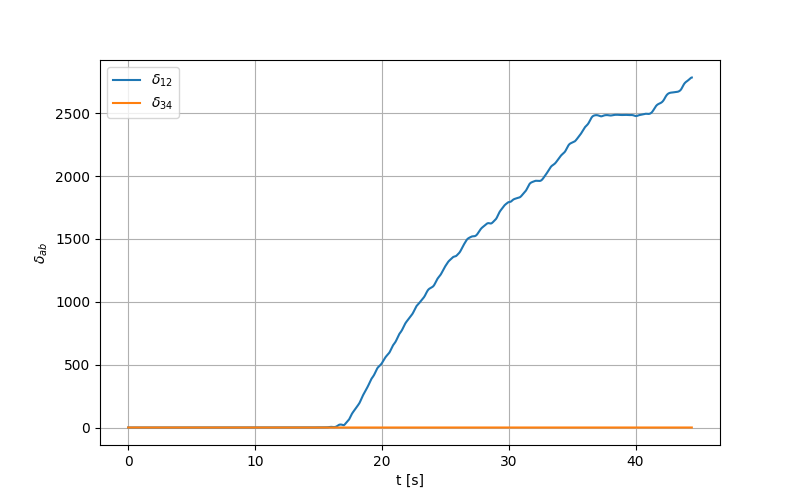
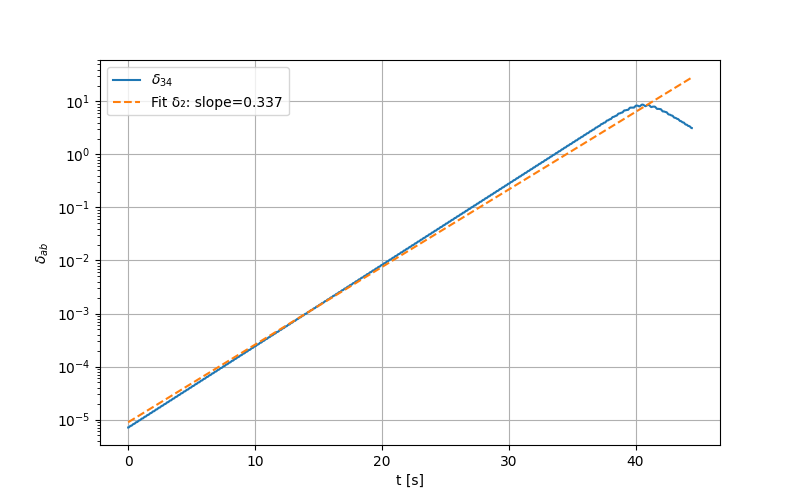
FUCK THE CHAOS

diff --git a/chaos.py b/chaos.py
@@ -1,0 +1,103 @@
+import numpy as np
+import os
+import fonctions as fct  # Assuming this module contains `read_in_file` and `run_simulation`
+import matplotlib.pyplot as plt
+
+# Define paths
+repertoire = r"C:\Users\Avril\Desktop\Exo2PhysNum-SLAY"
+executable = os.path.join(repertoire, "Exe.exe")
+os.chdir(repertoire)
+
+# Define input config file
+input_filename = "configb.in"
+
+# Read parameters from config file
+params = fct.read_in_file(input_filename)
+
+# Extract parameters
+theta0_a, thetadot0, mu, B0, m, L, w0 = fct.get_params(params)
+
+# Function to run simulations for theta0 and theta0 + 1e-6
+def run_sim(nsteps, ci_theta0, thetadot0):
+    outputs = {}
+    for n in nsteps:
+        for theta0 in ci_theta0:
+            perturbed_theta0 = theta0 + 1e-6  # Perturbation
+
+            # Run simulation for theta0
+            output_file_a, _ = fct.run_simulation(
+                executable=executable,
+                input_filename=input_filename,
+                output_template="nsteps={nsteps}_theta0={theta0:.6f}.out",
+                nsteps=n,
+                theta0=theta0,
+                thetadot0=thetadot0
+            )
+
+            # Run simulation for perturbed theta0
+            output_file_b, _ = fct.run_simulation(
+                executable=executable,
+                input_filename=input_filename,
+                output_template="nsteps={nsteps}_theta0={theta0:.6f}_perturbed.out",
+                nsteps=n,
+                theta0=perturbed_theta0,
+                thetadot0=thetadot0
+            )
+
+            outputs[theta0] = (output_file_a, output_file_b)
+    return outputs
+
+# Function to compute the Lyapunov exponent for perturbed theta0 values
+def compute_lyapunov_exponent(t, theta_a, theta_dot_a, theta_b, theta_dot_b, w0):
+    delta = np.sqrt(w0**2 * (theta_b - theta_a)**2 + (theta_dot_b - theta_dot_a)**2)
+    slope, intercept = np.polyfit(t, np.log(delta), 1)
+    return slope
+
+# Main function that runs simulations and computes Lyapunov exponents
+def exp(nsteps, ci_theta0, thetadot0):
+
+    output_files = run_sim(nsteps, ci_theta0, thetadot0)
+
+    lyapunov_exponents = {}
+    for theta0, (file_a, file_b) in output_files.items():
+        if os.path.exists(file_a) and os.path.exists(file_b):
+            print(f"✅ Reading files: {file_a} and {file_b}")
+            data_a = np.loadtxt(file_a)
+            data_b = np.loadtxt(file_b)
+
+            t = data_a[:, 0]  # Time array
+            theta_a = data_a[:, 1]  # Theta values for original
+            theta_dot_a = data_a[:, 2]  # Theta dot values for original
+
+            theta_b = data_b[:, 1]  # Theta values for perturbed
+            theta_dot_b = data_b[:, 2]  # Theta dot values for perturbed
+
+            lyapunov_exp = compute_lyapunov_exponent(
+                t, theta_a, theta_dot_a, theta_b, theta_dot_b, w0
+            )
+
+            key = f"theta0={theta0:.6f}"
+            lyapunov_exponents[key] = lyapunov_exp
+
+    return lyapunov_exponents
+
+nsteps = np.array([1000], dtype=int)
+ci_theta0 = np.linspace(-np.pi, np.pi, 100)
+
+lyapunov_results = exp(nsteps, ci_theta0, thetadot0)
+values = list(lyapunov_results.values())
+min_key = min(lyapunov_results, key=lyapunov_results.get)
+max_key = max(lyapunov_results, key=lyapunov_results.get)
+
+lyap_min = lyapunov_results[min_key]
+lyap_max = lyapunov_results[max_key]
+
+print(f"🔹 Minimum Lyapunov Exponent: {lyap_min:.6f} at {min_key}")
+print(f"🔺 Maximum Lyapunov Exponent: {lyap_max:.6f} at {max_key}")
+
+plt.plot(ci_theta0, values, '+')
+plt.xlabel('theta0')
+plt.ylabel('Lyapunov Exponent')
+plt.grid()
+plt.show()
+

diff --git a/questiond.py b/questiond.py
@@ -39,10 +39,10 @@ w0 = np.sqrt(12 * mu * B0 / (m * L**2))
 # Define initial conditions (theta0, thetadot0)
 nsteps = np.array([1000], dtype=int)
 ci = np.array([
-    [2.665594, 0],
-    [2.665595, 0],
-    [4.379190, 0],
-    [4.379191, 0]
+    [0, 0],
+    [-(1e-6), 0],
+    [-2.697327, 0],
+    [-2.697326, 0]
 ], dtype=float)
 
 nsimul = len(nsteps) * len(ci)
@@ -92,17 +92,19 @@ plt.figure(figsize=(8, 5))
 delta1 = np.sqrt(w0**2 * (thetas[:, 1] - thetas[:, 0])**2 + (thetas_dot[:, 1] - thetas_dot[:, 0])**2)
 delta2 = np.sqrt(w0**2 * (thetas[:, 3] - thetas[:, 2])**2 + (thetas_dot[:, 3] - thetas_dot[:, 2])**2)
 
-# Plot both delta values with labels
-plt.plot(t, delta1, label=r'$\delta_{12}$')
-plt.plot(t, delta2, label=r'$\delta_{34}$')
-
 # Logarithmic Fit (Optional - Uncomment if needed)
 
 slope1, intercept1 = np.polyfit(t, np.log(delta1), 1)  # Avoid log(0) by adding a small value
 slope2, intercept2 = np.polyfit(t, np.log(delta2), 1)
+#plt.plot(t, delta1, label=r'$\delta_{12}$')
+plt.semilogy(t, delta1, label=r'$\delta_{34}$')
+'''
+plt.semilogy(t, delta1, label=r'$\delta_{12}$')
+plt.semilogy(t, delta2, label=r'$\delta_{34}$')
 
-plt.plot(t, np.exp(slope1 * t + intercept1), '--', label=f"Fit δ₁: slope={slope1:.3f}")
-plt.plot(t, np.exp(slope2 * t + intercept2), '--', label=f"Fit δ₂: slope={slope2:.3f}")'
+plt.semilogy(t, np.exp(slope1 * t + intercept1), '--', label=f"Fit δ₁: slope={slope1:.3f}")'
+'''
+plt.semilogy(t, np.exp(slope1 * t + intercept1), '--', label=f"Fit δ₂: slope={slope1:.3f}")
 
 # Labels and settings
 plt.xlabel('t [s]')

diff --git a/questiona2.py b/questiona2.py
@@ -119,11 +119,11 @@ ref_y = ref_x**2  # A line with slope 2 in log-log space
 
 # Create the log-log plot
 plt.figure(figsize=(8, 5))
-plt.loglog(delta_t, deltas, marker='o', linestyle='-', color='b', label=r"$\delta$ Data")
+plt.loglog(delta_t, deltas, marker='o', linestyle='-', color='b', label=r"Error on $\theta$ and $\dot\theta$")
 plt.loglog(ref_x, ref_y, linestyle='--', color='r', label=r"$\sim \Delta t^2$")
 
 plt.xlabel(r"$\Delta t$ [s]")
-plt.ylabel(r"$\delta$")
+plt.ylabel(r"$\delta$ [rad/s]")
 plt.grid(True, which="both", linestyle="--", linewidth=0.5)
 plt.legend()
 

diff --git a/questionc.py b/questionc.py
@@ -55,11 +55,6 @@ theta_dot0 = np.linspace(-10, 10, nsimul)
 #theta0 = np.linspace(0, np.pi, nsimul) #n=20
 #theta_dot0 = np.linspace(-10, 10, nsimul)
 
-
-
-
-
-
 #Creation des fichiers de simulations automatiquement pour diff nsteps
 outputs = []  
 for i in range(nsimul):
